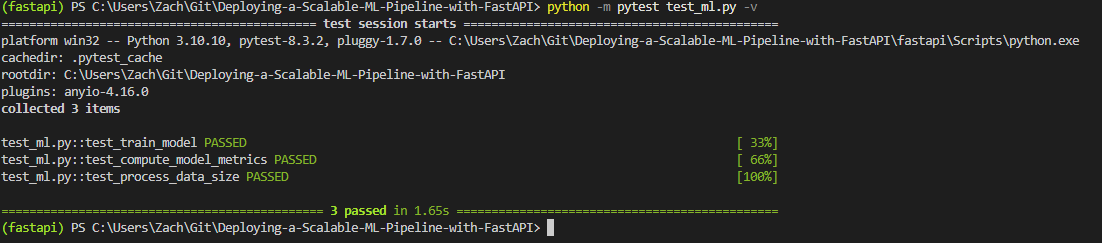
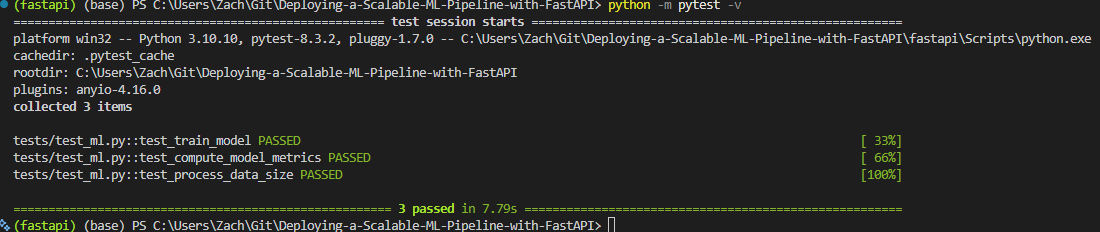
Fixed metrics test and CI workflow configuration.

diff --git a/tests/test_ml.py b/tests/test_ml.py
@@ -40,10 +40,14 @@ def test_train_model(sample_data):
     assert isinstance(model, RandomForestClassifier)
 
 def test_compute_model_metrics():
-    """Test if compute_model_metrics returns expected float values."""
+    """Test if compute_model_metrics returns exact expected numeric values."""
     y_true = [0, 1, 1, 0, 1]
     y_pred = [0, 1, 0, 0, 1]
     precision, recall, fbeta = compute_model_metrics(y_true, y_pred)
+    
+    assert precision == pytest.approx(1.0)
+    assert recall == pytest.approx(2/3)
+    assert fbeta == pytest.approx(0.8)
     
     assert isinstance(precision, float)
     assert isinstance(recall, float)
